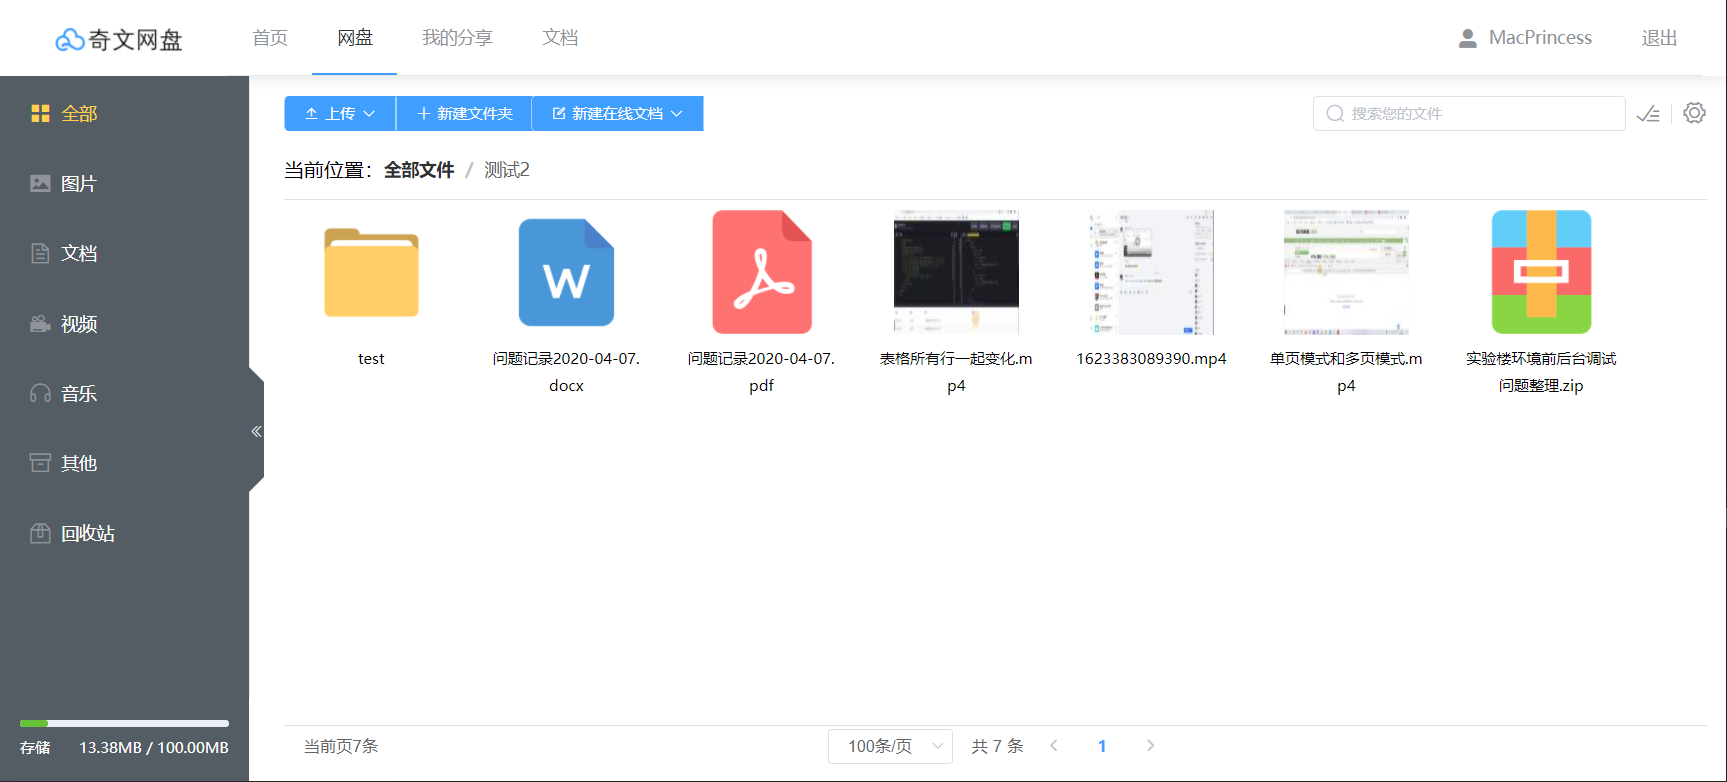
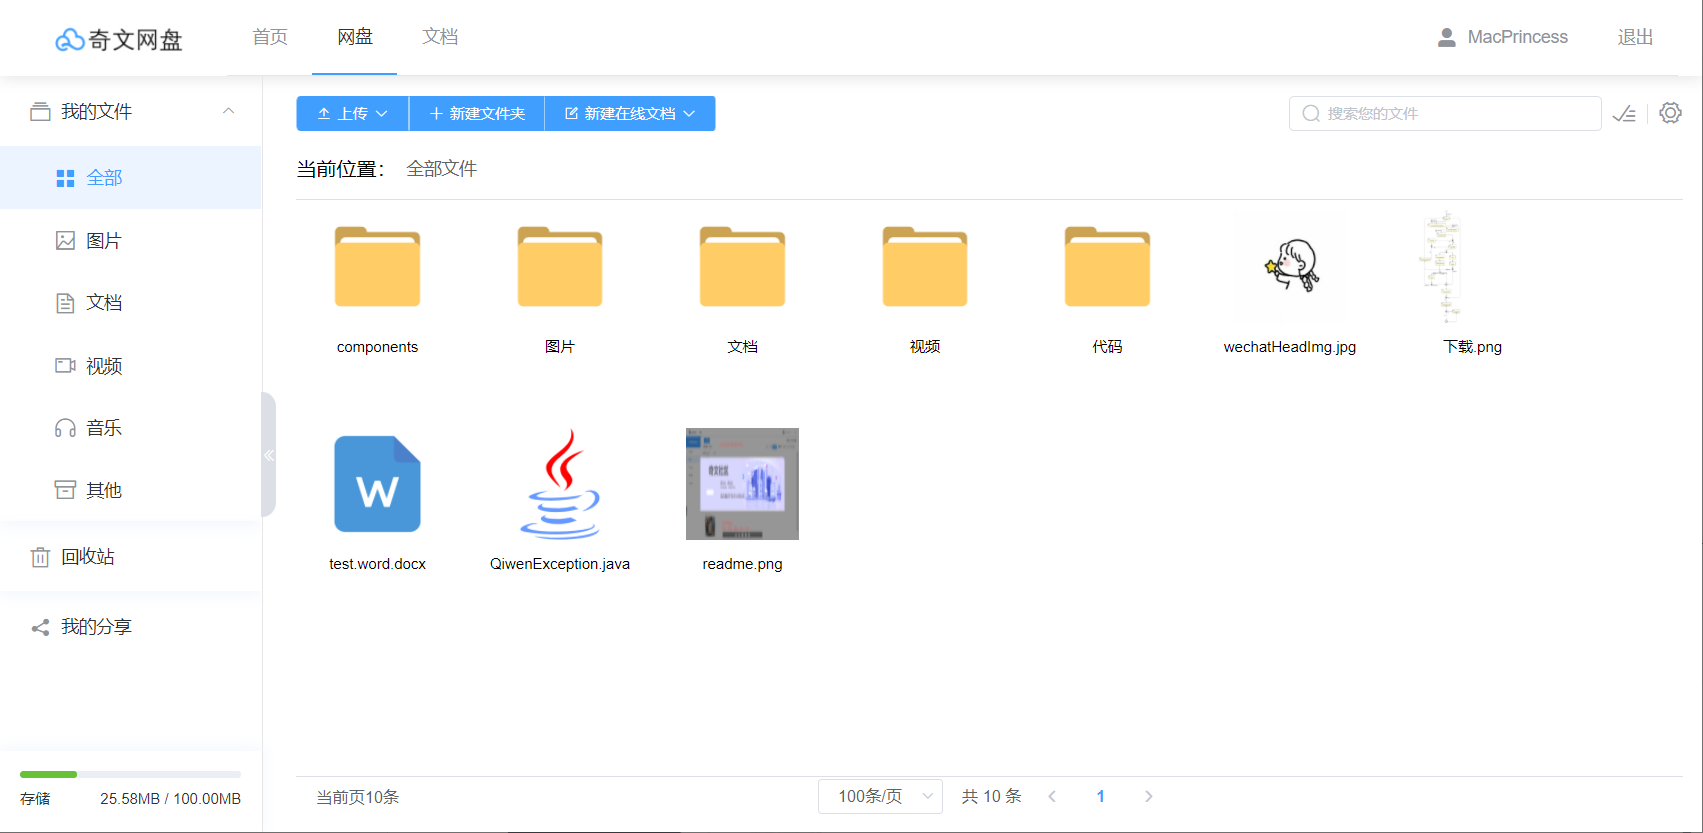
📃 docs(指南): 功能展示介绍信息和配图修改
添加面包屑导航栏可输入路径功能介绍；配图更新

diff --git a/docs/guide/function.md b/docs/guide/function.md
@@ -20,11 +20,14 @@
 
 ### 页面布局
 
-- 左侧分类栏区域：展示文件类型，点击可以分类查看文件，底部显示已占用存储空间。
+- 左侧分类栏区域：展示文件类型，分为我的文件、回收站和我的分享三大类，切换分类可以查看文件，底部显示已占用存储空间。
   1. 点击左侧分类栏中的**全部**，右侧文件列表会随面包屑导航栏中的当前位置变化而变化，调用后台接口，传参当前位置 & 分页数据，获取当前路径下 & 当前页的文件列表。
   2. 点击左侧分类栏中的**图片、文档、视频、音乐、其他**，面包屑导航栏将显示当前文件类型，右侧文件列表会随左侧分类栏的切换而变化，调用后台接口，传参当前点击的文件类型 & 分页数据，获取当前文件类型 & 当前页的文件列表。
-- 顶部文件操作区域：包括对文件的操作按钮组、文件查看模式切换按钮组、设置文件显示列按钮。
-- 右侧文件展示区域：包括面包屑导航栏——标识当前位于的目录；文件展示区域——展示形式会随文件查看模式而改变；底部分页组件。
+  3. 点击左侧分类栏中的**回收站**，右侧文件列表显示回收站中的文件。
+  4. 点击左侧分类栏中的**我的分享**，右侧文件列表显示个人分享过的文件。
+- 顶部文件操作区域：包括对文件的操作按钮组、文件查看模式切换按钮组、设置文件显示列按钮
+- 中间面包屑导航栏：标识当前位于的目录。点击层级，可以回到任意一层目录；**点击面包屑导航栏后面的空白处，可以手动输入路径以便快速进入指定目录**。
+- 右侧文件展示区域：展示形式会随文件查看模式而改变；底部分页组件。
 
 ![网盘主页](./img/function/home.png)
 
@@ -39,6 +42,12 @@
 在网格模式和时间线模式下，支持手动调整图标大小：
 
 ![图标大小调整](./img/function/adjustIconSize.gif)
+
+## 路径导航
+
+点击目录跳转到该文件夹内部，在面包屑导航栏后面空白处点击，可以**输入路径**，快速到达指定路径（此功能仅支持在 **我的文件 - 全部** 分类下使用）
+
+![图标大小调整](./img/function/breadCrumb.gif)
 
 ## 三种查看模式
 
@@ -78,9 +87,13 @@
 
 ### 文件在线解压缩
 
-支持 ZIP 和 RAR 格式的文件在线解压缩。
+支持 ZIP 和 RAR 格式的文件在线解压缩，支持三种解压方式：
 
-![文件在线解压缩](./img/function/unzip.png)
+1. 解压到当前文件夹
+2. 解压到以当前压缩文件命名的文件夹内
+3. 解压到指定文件夹
+
+![文件在线解压缩](./img/function/unzip.gif)
 
 ### 文件搜索
 
@@ -138,8 +151,8 @@
    粘贴分享链接及提取码效果：
 
    ```
-   分享链接：https://pan.qiwenshare.com/share/3c6ca7bb39a0475a8d05b8441b22acf8
-   提取码：238285
+   分享链接：http://localhost:8080/share/363196ac9fd94371b9f47cb24f042d9f
+   提取码：967617
    复制链接到浏览器中并输入提取码即可查看文件
    ```
 

diff --git a/docs/config/backend.md b/docs/config/backend.md
@@ -2,16 +2,33 @@
 
 ## 端口号配置
 
-项目中涉及到的端口号前后台都涉及，后台需要配置服务启动的端口号（如：8080），对前台而言，则需要配置连接后台服务的端口号（如：8080），这样请求才能连通。
+项目中涉及到的端口号前端、后台都涉及。后台需要配置服务启动的端口号（如：8080），对前端而言，则需要配置连接后台服务的端口号（如：8080），这样请求才能连通。
 
-打开后台代码，进入 resource 目录，打开 application.properties配置文件，配置 `server.port` 属性
+- 对后台来说，进入 resource 目录，打开 application.properties配置文件，配置 `server.port` 属性
 
 ```properties
 server.port=8080
 ```
 
-打开前台代码，在 `/public/config.json` 文件中，需要配置连接后台服务的 baseUrl，如果后台服务启动在`http://localhost:8080`，那么这里就需要改成 `http://localhost:8080`
+- 对前端来说，在根目录下的 `vue.config.js` 文件中，需要配置连接后台服务的接口，如果后台服务启动在 `http://localhost:8080`，那么在 `devServer.proxy` 中的 `target` 就需要改成 `http://localhost:8080`
 
+```javascript
+devServer: {
+  disableHostCheck: true,
+  host: '0.0.0.0',
+  // 配置代理，解决本地开发环境下跨域请求后台接口的问题，proxy 中的修改项修改完后需要重启项目才可生效
+  proxy: {
+    '/api': {
+      target: 'http://localhost:8080', //  本地开发环境 - 连接后台接口
+      ws: true, //是否跨域
+      changeOrigin: true,
+      pathRewrite: {
+        '^/api': '/'
+      }
+    }
+  }
+}
+```
 
 ## 上传路径配置
 
